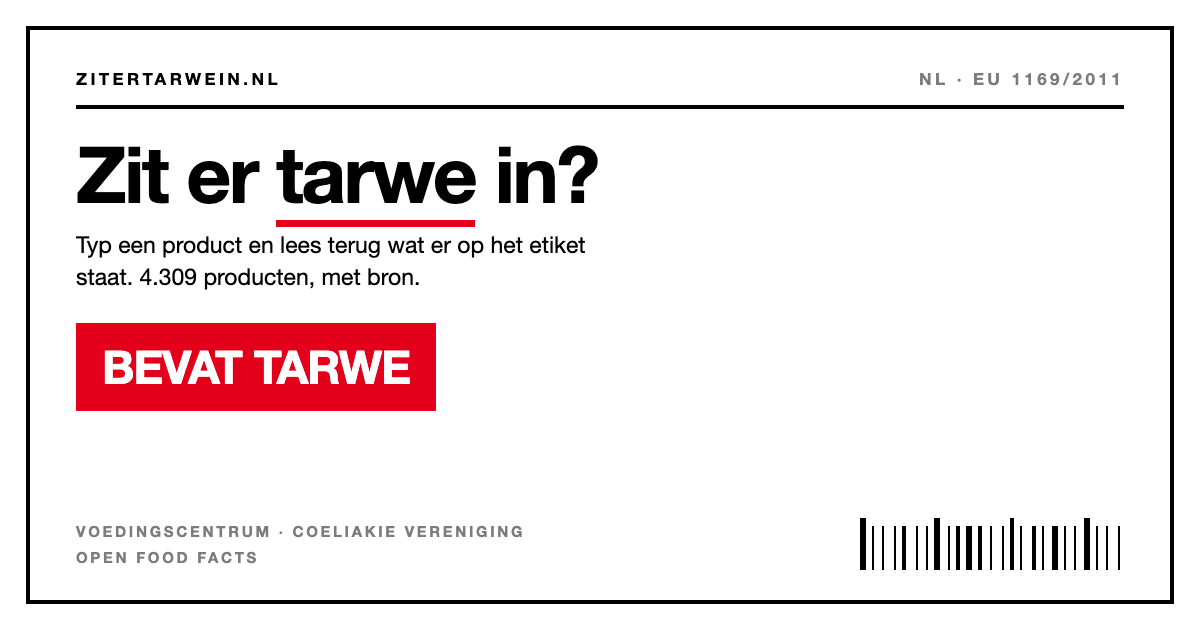
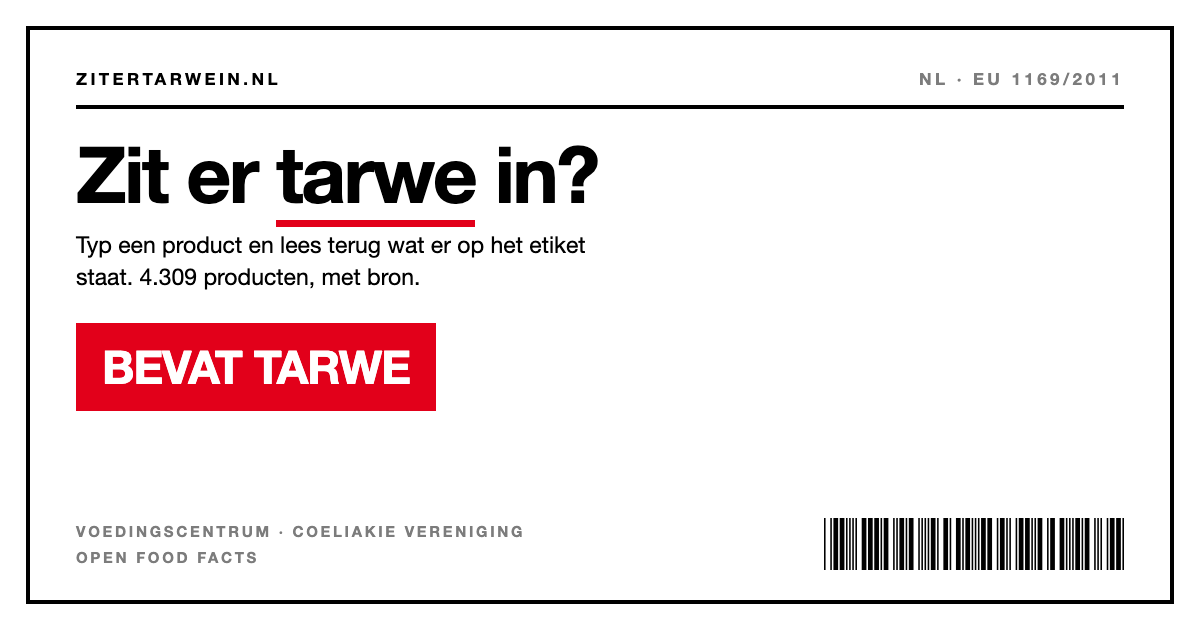
feat: de barcode is echt en leest "GEEN TARWE"
De streepjescode onderaan was decoratief. Nu is het geldige Code 39
(3:1, start/stop *), die door een willekeurige scanner-app gelezen
wordt als GEEN TARWE — het antwoord dat deze site het liefst geeft.

De geometrie is gegenereerd, niet met de hand geteld, en teruggelezen
uit de SVG om te controleren dat er *GEEN TARWE* uitkomt. Ook op de
social card, iets hoger op de pagina zodat een telefoon 'm van het
scherm af kan lezen.

Changed region(s): [[0.6783, 0.8143, 0.9558, 0.9048]]

diff --git a/og-source.html b/og-source.html
@@ -20,8 +20,7 @@
   .stamp { margin-top:30px; background:#e2001a; color:#fff; font-size:46px; font-weight:700; letter-spacing:-.02em; padding:16px 26px; align-self:flex-start; }
   .foot { margin-top:auto; display:flex; justify-content:space-between; align-items:flex-end; }
   .fine { font-size:15px; font-weight:700; letter-spacing:.18em; color:#7c7c7c; line-height:1.7; }
-  .bars { display:flex; align-items:flex-end; gap:2px; height:52px; }
-  .bars i { background:#000; display:block; }
+  .bars { width:300px; height:52px; }
 </style>
 </head>
 <body>
@@ -33,13 +32,72 @@
     <div class="stamp">BEVAT TARWE</div>
     <div class="foot">
       <p class="fine">VOEDINGSCENTRUM · COELIAKIE VERENIGING<br>OPEN FOOD FACTS</p>
-      <div class="bars" id="bars"></div>
+      <svg class="bars" viewBox="0 0 382 52" preserveAspectRatio="none"
+           role="img" aria-label="Streepjescode die “geen tarwe” spelt">
+        <g fill="#000">
+        <rect x="0" width="2" height="52"/>
+        <rect x="8" width="2" height="52"/>
+        <rect x="12" width="6" height="52"/>
+        <rect x="20" width="6" height="52"/>
+        <rect x="28" width="2" height="52"/>
+        <rect x="32" width="2" height="52"/>
+        <rect x="36" width="2" height="52"/>
+        <rect x="40" width="2" height="52"/>
+        <rect x="48" width="6" height="52"/>
+        <rect x="56" width="6" height="52"/>
+        <rect x="64" width="6" height="52"/>
+        <rect x="72" width="2" height="52"/>
+        <rect x="76" width="6" height="52"/>
+        <rect x="88" width="2" height="52"/>
+        <rect x="92" width="2" height="52"/>
+        <rect x="96" width="6" height="52"/>
+        <rect x="104" width="2" height="52"/>
+        <rect x="108" width="6" height="52"/>
+        <rect x="120" width="2" height="52"/>
+        <rect x="124" width="2" height="52"/>
+        <rect x="128" width="2" height="52"/>
+        <rect x="132" width="2" height="52"/>
+        <rect x="136" width="6" height="52"/>
+        <rect x="144" width="2" height="52"/>
+        <rect x="152" width="6" height="52"/>
+        <rect x="160" width="2" height="52"/>
+        <rect x="168" width="6" height="52"/>
+        <rect x="176" width="2" height="52"/>
+        <rect x="180" width="6" height="52"/>
+        <rect x="188" width="2" height="52"/>
+        <rect x="192" width="2" height="52"/>
+        <rect x="196" width="2" height="52"/>
+        <rect x="200" width="6" height="52"/>
+        <rect x="208" width="6" height="52"/>
+        <rect x="220" width="2" height="52"/>
+        <rect x="224" width="6" height="52"/>
+        <rect x="232" width="2" height="52"/>
+        <rect x="236" width="2" height="52"/>
+        <rect x="244" width="2" height="52"/>
+        <rect x="248" width="6" height="52"/>
+        <rect x="256" width="6" height="52"/>
+        <rect x="264" width="2" height="52"/>
+        <rect x="268" width="2" height="52"/>
+        <rect x="272" width="6" height="52"/>
+        <rect x="284" width="2" height="52"/>
+        <rect x="288" width="6" height="52"/>
+        <rect x="300" width="6" height="52"/>
+        <rect x="308" width="2" height="52"/>
+        <rect x="312" width="2" height="52"/>
+        <rect x="316" width="2" height="52"/>
+        <rect x="320" width="6" height="52"/>
+        <rect x="328" width="2" height="52"/>
+        <rect x="332" width="6" height="52"/>
+        <rect x="344" width="2" height="52"/>
+        <rect x="348" width="2" height="52"/>
+        <rect x="352" width="2" height="52"/>
+        <rect x="360" width="2" height="52"/>
+        <rect x="364" width="6" height="52"/>
+        <rect x="372" width="6" height="52"/>
+        <rect x="380" width="2" height="52"/>
+        </g>
+      </svg>
     </div>
   </div>
-<script>
-  const w=[3,1,1,2,1,3,1,1,2,3,1,2,1,1,3,2,1,1,2,1,3,1,2,2,1,3,1,1,2,1,1,3,2,1,1,2,3,1,1,2,1,2,3,1,1,2,1,3,1,1];
-  document.getElementById('bars').innerHTML = w.map((n,i)=>
-    `<i style="width:${n*2}px;height:${i%7===0?52:44}px;${i%2?'background:transparent':''}"></i>`).join('');
-</script>
 </body>
 </html>

diff --git a/src/lib/code39.test.ts b/src/lib/code39.test.ts
@@ -1,0 +1,113 @@
+import { describe, expect, it } from "vitest"
+import type { Bar } from "./code39"
+import { code39 } from "./code39"
+
+const CHARSET = "0123456789ABCDEFGHIJKLMNOPQRSTUVWXYZ-. $/+%"
+
+/** Element widths (bar, space, bar, …) of one encoded character, read back from the bars. */
+function elements(bars: readonly Bar[]): number[] {
+  const widths: number[] = []
+  bars.forEach((bar, i) => {
+    const next = bars[i + 1]
+    widths.push(bar.width)
+    if (next) {
+      widths.push(next.x - bar.x - bar.width)
+    }
+  })
+  return widths
+}
+
+describe("code39", () => {
+  it("draws GEEN TARWE exactly as the hand-checked footer barcode", () => {
+    const { bars, width } = code39("GEEN TARWE")
+    expect(width).toBe(382)
+    expect(bars).toEqual([
+      { x: 0, width: 2 },
+      { x: 8, width: 2 },
+      { x: 12, width: 6 },
+      { x: 20, width: 6 },
+      { x: 28, width: 2 },
+      { x: 32, width: 2 },
+      { x: 36, width: 2 },
+      { x: 40, width: 2 },
+      { x: 48, width: 6 },
+      { x: 56, width: 6 },
+      { x: 64, width: 6 },
+      { x: 72, width: 2 },
+      { x: 76, width: 6 },
+      { x: 88, width: 2 },
+      { x: 92, width: 2 },
+      { x: 96, width: 6 },
+      { x: 104, width: 2 },
+      { x: 108, width: 6 },
+      { x: 120, width: 2 },
+      { x: 124, width: 2 },
+      { x: 128, width: 2 },
+      { x: 132, width: 2 },
+      { x: 136, width: 6 },
+      { x: 144, width: 2 },
+      { x: 152, width: 6 },
+      { x: 160, width: 2 },
+      { x: 168, width: 6 },
+      { x: 176, width: 2 },
+      { x: 180, width: 6 },
+      { x: 188, width: 2 },
+      { x: 192, width: 2 },
+      { x: 196, width: 2 },
+      { x: 200, width: 6 },
+      { x: 208, width: 6 },
+      { x: 220, width: 2 },
+      { x: 224, width: 6 },
+      { x: 232, width: 2 },
+      { x: 236, width: 2 },
+      { x: 244, width: 2 },
+      { x: 248, width: 6 },
+      { x: 256, width: 6 },
+      { x: 264, width: 2 },
+      { x: 268, width: 2 },
+      { x: 272, width: 6 },
+      { x: 284, width: 2 },
+      { x: 288, width: 6 },
+      { x: 300, width: 6 },
+      { x: 308, width: 2 },
+      { x: 312, width: 2 },
+      { x: 316, width: 2 },
+      { x: 320, width: 6 },
+      { x: 328, width: 2 },
+      { x: 332, width: 6 },
+      { x: 344, width: 2 },
+      { x: 348, width: 2 },
+      { x: 352, width: 2 },
+      { x: 360, width: 2 },
+      { x: 364, width: 6 },
+      { x: 372, width: 6 },
+      { x: 380, width: 2 },
+    ])
+  })
+
+  it("gives every character 9 elements, 3 of them wide", () => {
+    for (const char of CHARSET) {
+      // start * + char + stop *: the middle 5 bars are the character
+      const charBars = code39(char).bars.slice(5, 10)
+      const widths = elements(charBars)
+      expect(widths).toHaveLength(9)
+      expect(widths.filter(w => w === 6)).toHaveLength(3)
+      // two wide bars and one wide space, except $ / + % (three wide spaces)
+      const wideBars = charBars.filter(bar => bar.width === 6).length
+      expect(wideBars).toBe("$/+%".includes(char) ? 0 : 2)
+    }
+  })
+
+  it("encodes each character differently", () => {
+    const shapes = new Set<string>()
+    for (const char of CHARSET) {
+      shapes.add(JSON.stringify(elements(code39(char).bars.slice(5, 10))))
+    }
+    expect(shapes.size).toBe(CHARSET.length)
+  })
+
+  it("upper-cases and rejects characters outside the set", () => {
+    expect(code39("geen")).toEqual(code39("GEEN"))
+    expect(() => code39("é")).toThrow()
+  })
+})

diff --git a/src/lib/code39.ts b/src/lib/code39.ts
@@ -1,0 +1,89 @@
+/**
+ * Code 39: each character is 9 elements (bar, space, bar, …, bar), 3 of them wide. Patterns are
+ * written n/w per element, bars and spaces alternating.
+ */
+const PATTERNS: Readonly<Record<string, string>> = {
+  "0": "nnnwwnwnn",
+  "1": "wnnwnnnnw",
+  "2": "nnwwnnnnw",
+  "3": "wnwwnnnnn",
+  "4": "nnnwwnnnw",
+  "5": "wnnwwnnnn",
+  "6": "nnwwwnnnn",
+  "7": "nnnwnnwnw",
+  "8": "wnnwnnwnn",
+  "9": "nnwwnnwnn",
+  A: "wnnnnwnnw",
+  B: "nnwnnwnnw",
+  C: "wnwnnwnnn",
+  D: "nnnnwwnnw",
+  E: "wnnnwwnnn",
+  F: "nnwnwwnnn",
+  G: "nnnnnwwnw",
+  H: "wnnnnwwnn",
+  I: "nnwnnwwnn",
+  J: "nnnnwwwnn",
+  K: "wnnnnnnww",
+  L: "nnwnnnnww",
+  M: "wnwnnnnwn",
+  N: "nnnnwnnww",
+  O: "wnnnwnnwn",
+  P: "nnwnwnnwn",
+  Q: "nnnnnnwww",
+  R: "wnnnnnwwn",
+  S: "nnwnnnwwn",
+  T: "nnnnwnwwn",
+  U: "wwnnnnnnw",
+  V: "nwwnnnnnw",
+  W: "wwwnnnnnn",
+  X: "nwnnwnnnw",
+  Y: "wwnnwnnnn",
+  Z: "nwwnwnnnn",
+  "-": "nwnnnnwnw",
+  ".": "wwnnnnwnn",
+  " ": "nwwnnnwnn",
+  $: "nwnwnwnnn",
+  "/": "nwnwnnnwn",
+  "+": "nwnnnwnwn",
+  "%": "nnnwnwnwn",
+  "*": "nwnnwnwnn",
+}
+
+export interface Bar {
+  x: number
+  width: number
+}
+
+export interface Code39 {
+  bars: Bar[]
+  /** Total width, from the left edge of the first bar to the right edge of the last. */
+  width: number
+}
+
+/**
+ * Bars for `text` wrapped in the * start/stop character. Wide elements are `ratio` times the
+ * narrow one; characters are separated by one narrow space.
+ */
+export function code39(text: string, narrow = 2, ratio = 3): Code39 {
+  const bars: Bar[] = []
+  let x = 0
+  for (const char of `*${text.toUpperCase()}*`) {
+    const pattern = PATTERNS[char]
+    if (pattern === undefined) {
+      throw new Error(`Code 39 cannot encode "${char}"`)
+    }
+    if (x > 0) {
+      x += narrow // gap between characters
+    }
+    let isBar = true
+    for (const element of pattern) {
+      const width = element === "w" ? narrow * ratio : narrow
+      if (isBar) {
+        bars.push({ x, width })
+      }
+      x += width
+      isBar = !isBar
+    }
+  }
+  return { bars, width: x }
+}

diff --git a/src/app/Barcode.tsx b/src/app/Barcode.tsx
@@ -1,74 +1,22 @@
 import type { ReactElement } from "react"
+import { code39 } from "../lib/code39"
 
-/** Decorative bars: x, width, height (guard bars run the full 34). */
-const BARS: readonly (readonly [number, number, number])[] = [
-  [0, 2, 34],
-  [4, 1, 34],
-  [8, 3, 28],
-  [13, 1, 28],
-  [16, 2, 28],
-  [21, 1, 28],
-  [24, 1, 28],
-  [27, 3, 28],
-  [33, 1, 28],
-  [36, 2, 28],
-  [41, 3, 28],
-  [46, 1, 28],
-  [49, 2, 28],
-  [54, 1, 28],
-  [57, 1, 28],
-  [60, 3, 28],
-  [66, 2, 28],
-  [70, 1, 28],
-  [73, 3, 28],
-  [78, 1, 28],
-  [81, 2, 28],
-  [86, 1, 28],
-  [90, 1, 34],
-  [93, 2, 34],
-  [98, 1, 28],
-  [101, 3, 28],
-  [107, 1, 28],
-  [110, 2, 28],
-  [115, 1, 28],
-  [118, 3, 28],
-  [124, 1, 28],
-  [127, 2, 28],
-  [132, 1, 28],
-  [135, 1, 28],
-  [139, 3, 28],
-  [145, 1, 28],
-  [148, 2, 28],
-  [153, 3, 28],
-  [158, 1, 28],
-  [161, 2, 28],
-  [166, 1, 28],
-  [169, 1, 28],
-  [172, 3, 28],
-  [178, 2, 28],
-  [182, 1, 28],
-  [185, 3, 28],
-  [190, 1, 28],
-  [193, 2, 28],
-  [198, 1, 28],
-  [201, 3, 28],
-  [207, 1, 28],
-  [210, 2, 28],
-  [215, 1, 28],
-  [218, 1, 28],
-  [221, 3, 28],
-  [227, 2, 28],
-  [232, 1, 34],
-  [236, 2, 34],
-]
+const HEIGHT = 34
+const { bars, width } = code39("GEEN TARWE")
 
-/** The barcode every packet ends with. */
+/** A real Code 39 barcode, the way every packet ends. Scan it and it reads: GEEN TARWE. */
 export function Barcode(): ReactElement {
   return (
-    <svg className="barcode" viewBox="0 0 240 34" preserveAspectRatio="none" aria-hidden="true">
+    <svg
+      className="barcode"
+      viewBox={`0 0 ${width} ${HEIGHT}`}
+      preserveAspectRatio="none"
+      role="img"
+      aria-label="Streepjescode die “geen tarwe” spelt"
+    >
       <g fill="#000">
-        {BARS.map(([x, width, height]) => (
-          <rect key={x} x={x} y="0" width={width} height={height} />
+        {bars.map(bar => (
+          <rect key={bar.x} x={bar.x} width={bar.width} height={HEIGHT} />
         ))}
       </g>
     </svg>

diff --git a/src/app/Footer.css b/src/app/Footer.css
@@ -51,10 +51,11 @@ footer a {
   line-height: 1.55;
   color: var(--ink-soft);
 }
-/* Barcode: the signature every packet ends with. */
+/* Barcode: the signature every packet ends with.
+   Wide enough that a phone can actually read it off the screen. */
 .barcode {
   margin-top: 16px;
   width: 100%;
-  height: 34px;
+  height: 46px;
   display: block;
 }
